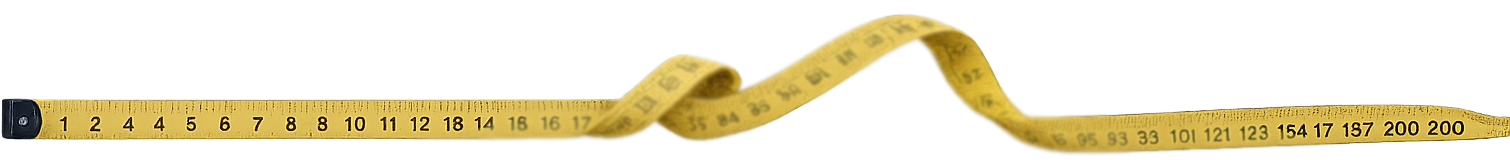
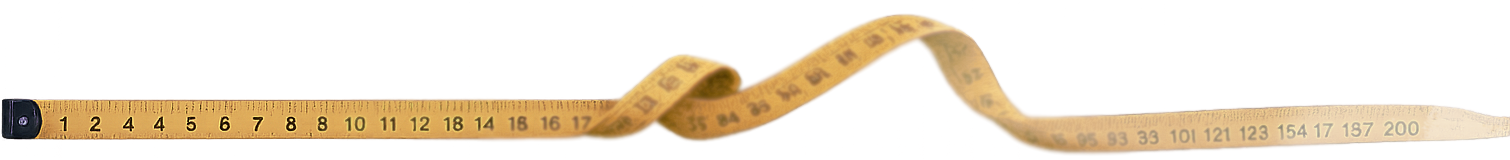
Опустить сантиметр на 10px и снизить прозрачность на 10%

Changed region(s): [[0.0, 0.125, 1.0, 0.9688], [0.4669, 0.4375, 0.498, 0.4688], [0.4358, 0.4062, 0.4669, 0.4375]]

diff --git a/index.html b/index.html
@@ -1887,7 +1887,7 @@ footer {
 
 <!-- ============ HOW IT WORKS ============ -->
 <section class="process" id="process" style="padding: 80px 60px;">
-  <img src="Images/см.png" alt="" style="position: absolute; top: 90px; left: 0; right: 0; width: 100%; height: auto; opacity: 0.72; pointer-events: none; z-index: 1;">
+  <img src="Images/см.png" alt="" style="position: absolute; top: 100px; left: 0; right: 0; width: 100%; height: auto; opacity: 0.62; pointer-events: none; z-index: 1;">
   <div class="section-tag">Как это работает</div>
   <h2 class="section-title">Просто и <em>удобно</em></h2>
   <div class="process-steps">
